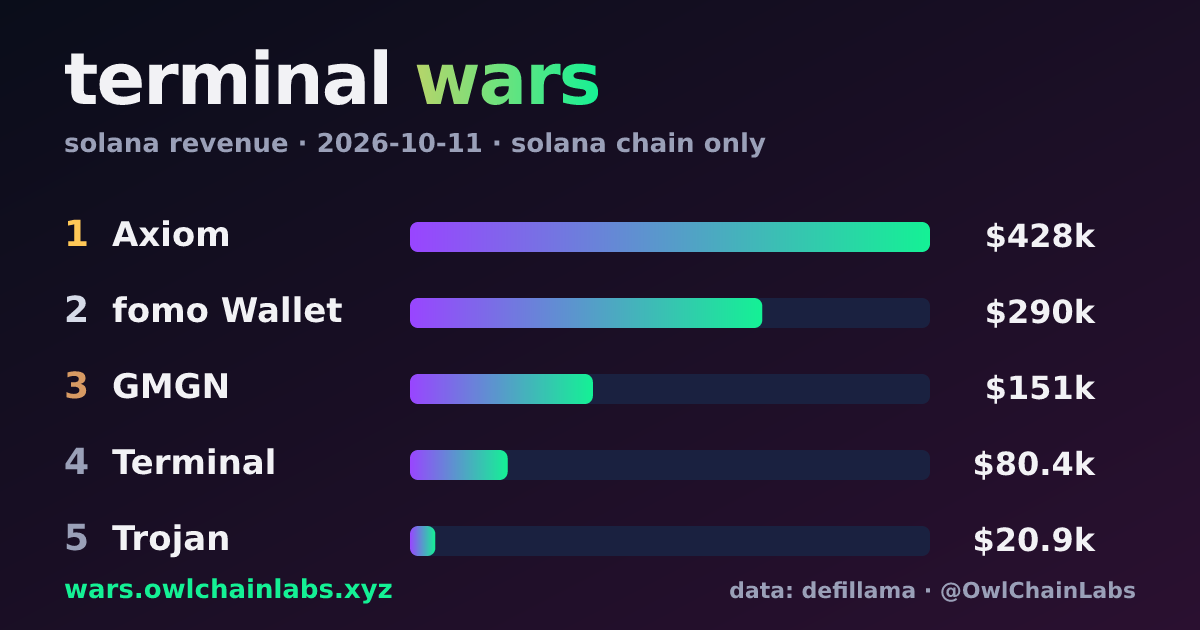
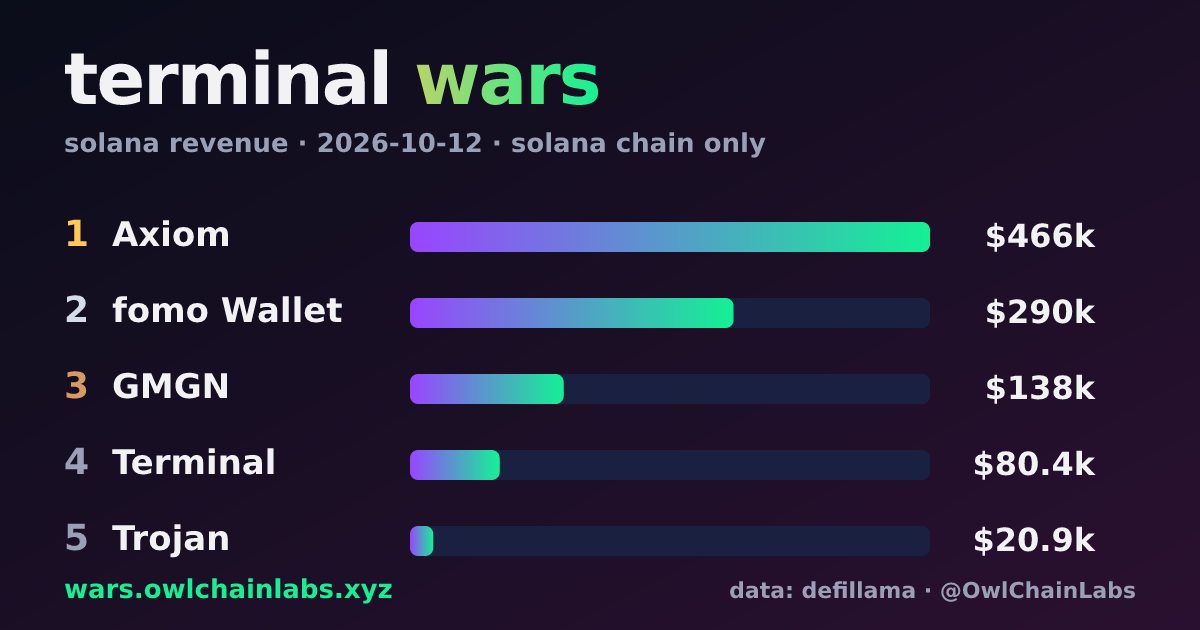
data: 2026-10-13

diff --git a/public/index.html b/public/index.html
@@ -9,8 +9,8 @@
   <meta property="og:title" content="terminal wars">
   <meta property="og:description" content="which solana trading terminal makes the most from you? daily leaderboard.">
   <meta property="og:url" content="https://wars.owlchainlabs.xyz">
-  <meta property="og:image" content="https://wars.owlchainlabs.xyz/og.png?v=2026-10-11">
-  <meta name="twitter:image" content="https://wars.owlchainlabs.xyz/og.png?v=2026-10-11">
+  <meta property="og:image" content="https://wars.owlchainlabs.xyz/og.png?v=2026-10-12">
+  <meta name="twitter:image" content="https://wars.owlchainlabs.xyz/og.png?v=2026-10-12">
   <meta name="twitter:card" content="summary_large_image">
   <meta name="twitter:site" content="@OwlChainLabs">
   <style>
